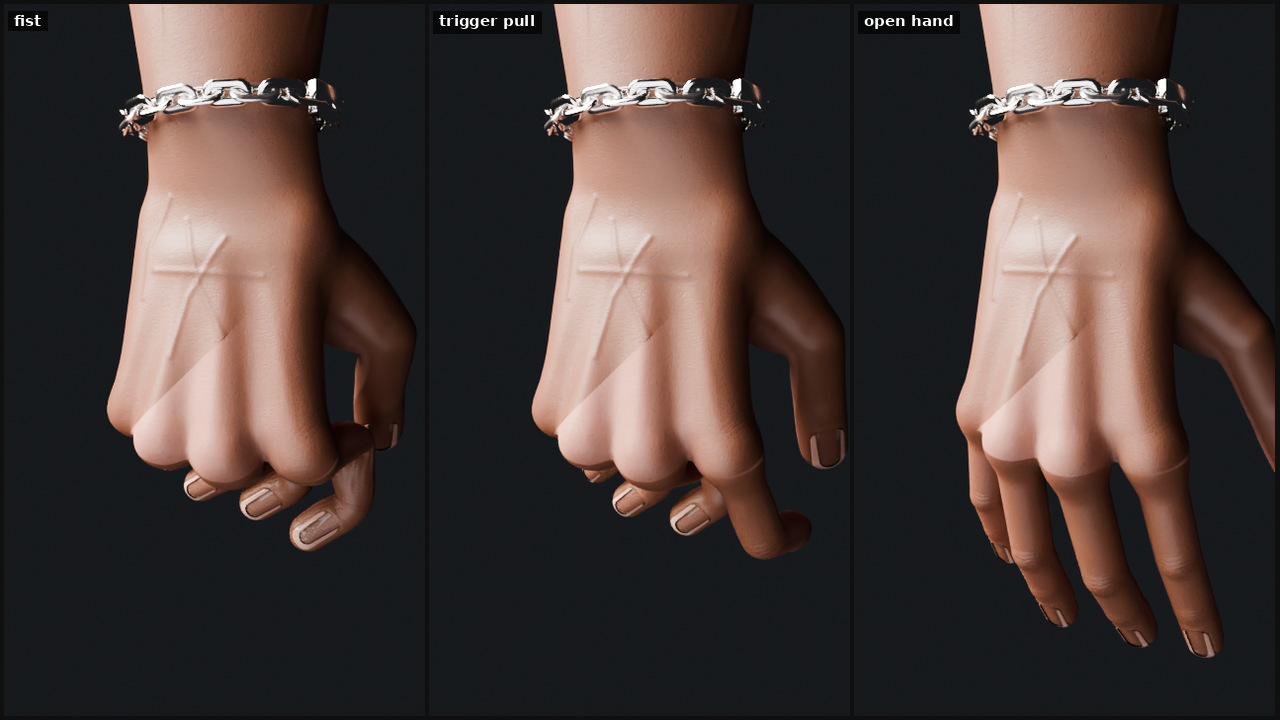
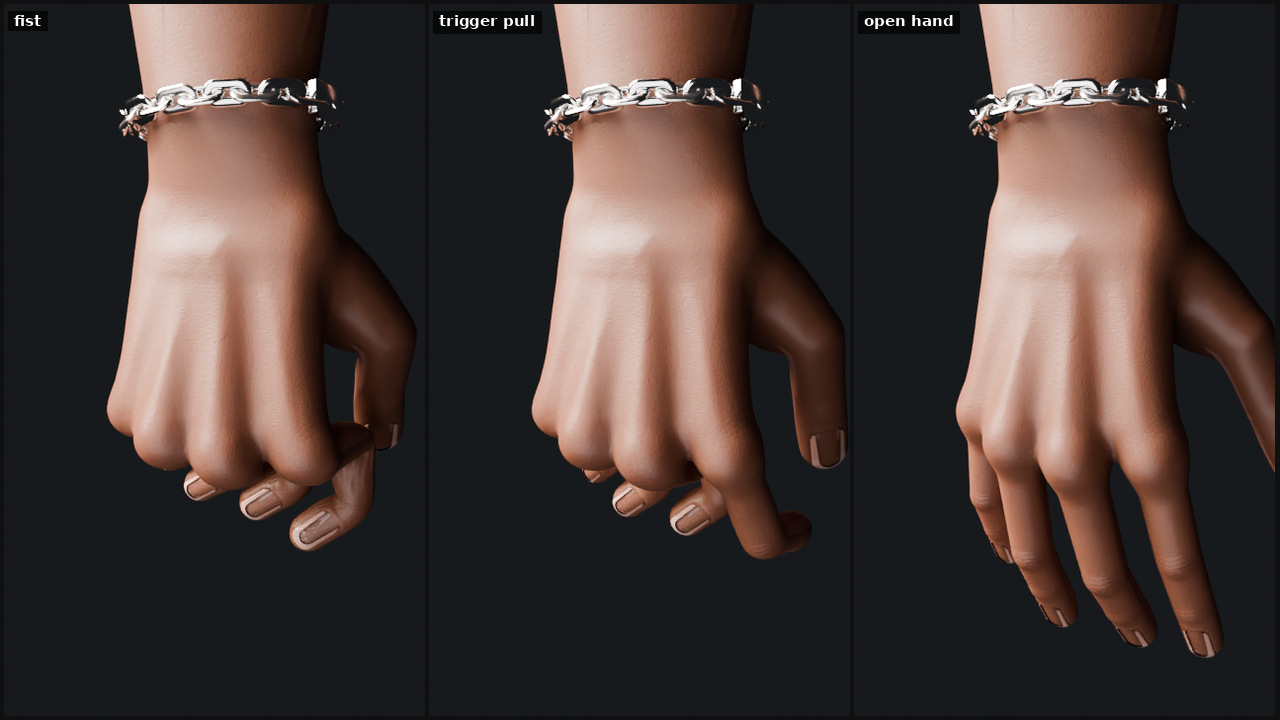
Rule likeness: back and palm of the hand by face normal, palm colour only on palm faces, subtler hand veins; rule_hands final; progress
Claude-Session: https://claude.ai/code/session_01HkcHdD7NbyxwnFfuuSpZY4

diff --git a/art/blender/assets/_rule_tex.py b/art/blender/assets/_rule_tex.py
@@ -171,8 +171,7 @@ def skin_texels(R, P, N, region, side, charts):
     # back / palm: by region where the faces say so, softened over the border of the hand
     # the palm side by the faces' region (the border of a hand's palm skin is fairly sharp), softened on the
     # fingers by the angle round each finger; the back of the hand keeps the arm's colour (no seam at the wrist)
-    pal = np.where(reg == 2, 1.0, 0.0)
-    pal = np.where((lab > 0) & (reg > 0), T.smoothstep(0.25, -0.35, cosd), pal) * hand
+    pal = np.where(reg == 2, np.where(lab > 0, 0.25 + 0.75 * T.smoothstep(0.10, -0.45, cosd), 1.0), 0.0) * hand
     mott = 1.0 + 0.07 * T.fbm(P, 1 / 0.012, 3, seed=32) + 0.04 * T.fbm(P, 1 / 0.003, 2, seed=33)
     bc = bc * (1 - pal)[:, None] + (PALM[None] * mott[:, None]) * pal[:, None]
     rough = rough * (1 - hand) + (0.46 + 0.10 * pal) * hand

diff --git a/art/blender/PROGRESS.md b/art/blender/PROGRESS.md
@@ -450,10 +450,21 @@ in any prompt, file or request; tattoo lettering is read from art/out/ref/tattoo
 - [x] previews round 1 (10 renders, committed). Worst faults: arms: a swollen ring at the wrist (a wide smooth
       union of the arm and the hand's coincident wrist piece), palm colour on the back of the hand, speckled
       normals on island edges, orange skin; body: the bust's neck edge just above the collar at the front
-- [ ] round 2 (running: arms re-meshed with a near-plain union, re-baked; fp, hands, arms hero, face, wire)
+- [x] round 2: worst faults found: a step from the wrist down to the back of the hand (the hand's own wrist
+      piece) and palm colour on the back of the hand. Fixed: the hand has no wrist piece (bare_palm_sdf), the
+      forearm flattens and widens into the heel (74 mm); back / palm by face normal; finger labels and knuckle
+      darkening not applied behind the knuckles; bust neck edge carried 1.8 cm under the collar.
+      Final: SK_RuleArms 131,594 tris (UV: hand 7.2k px/m, forearm 4.0k, upper arm 2.8k at 4K), bracelet 13,988,
+      SK_Rule 120,621, SK_RuleArms_Gloved 108,398. Renders: 10 (round 1) + 5 (round 2) + 5 (wrist fix) + 3 x 3
+      hands re-renders while fixing the back of the hand: over the 12 asked for.
+- Known: the CHOPPER hold pose is the first version's (left hand beside the handguard, not round it);
+  rule_arms_fp / rule_arms_hero predate the last texture fix of the back of the hand (rule_hands is current);
+  the face is the generated head (painted eyes under glossy covers, no mouth interior, 2K maps upscaled to 4K);
+  the full body's arms are the generated ones (invented tattoos), not SK_RuleArms; small streak on the throat
+  where the bust's neck edge was carried down.
 ## Exact next step
-When round 2 is done: look at the five pictures, commit them; the face against the photo is in
-art/out/gen/rule/compare_face.jpg (private).
+None required. Improvements: better photos (see the task report), then a head from several views; a gun-grip
+solve for the bare hands; re-render rule_arms_fp and rule_arms_hero.
 
 ---------------------------------------------------------------------------------------------------------------
 # Goons (assets/goons.py, _goons_*.py, mi/cloth.py), senior character artist: SK_Goon_Hoodie / _Puffer / _Tracksuit
